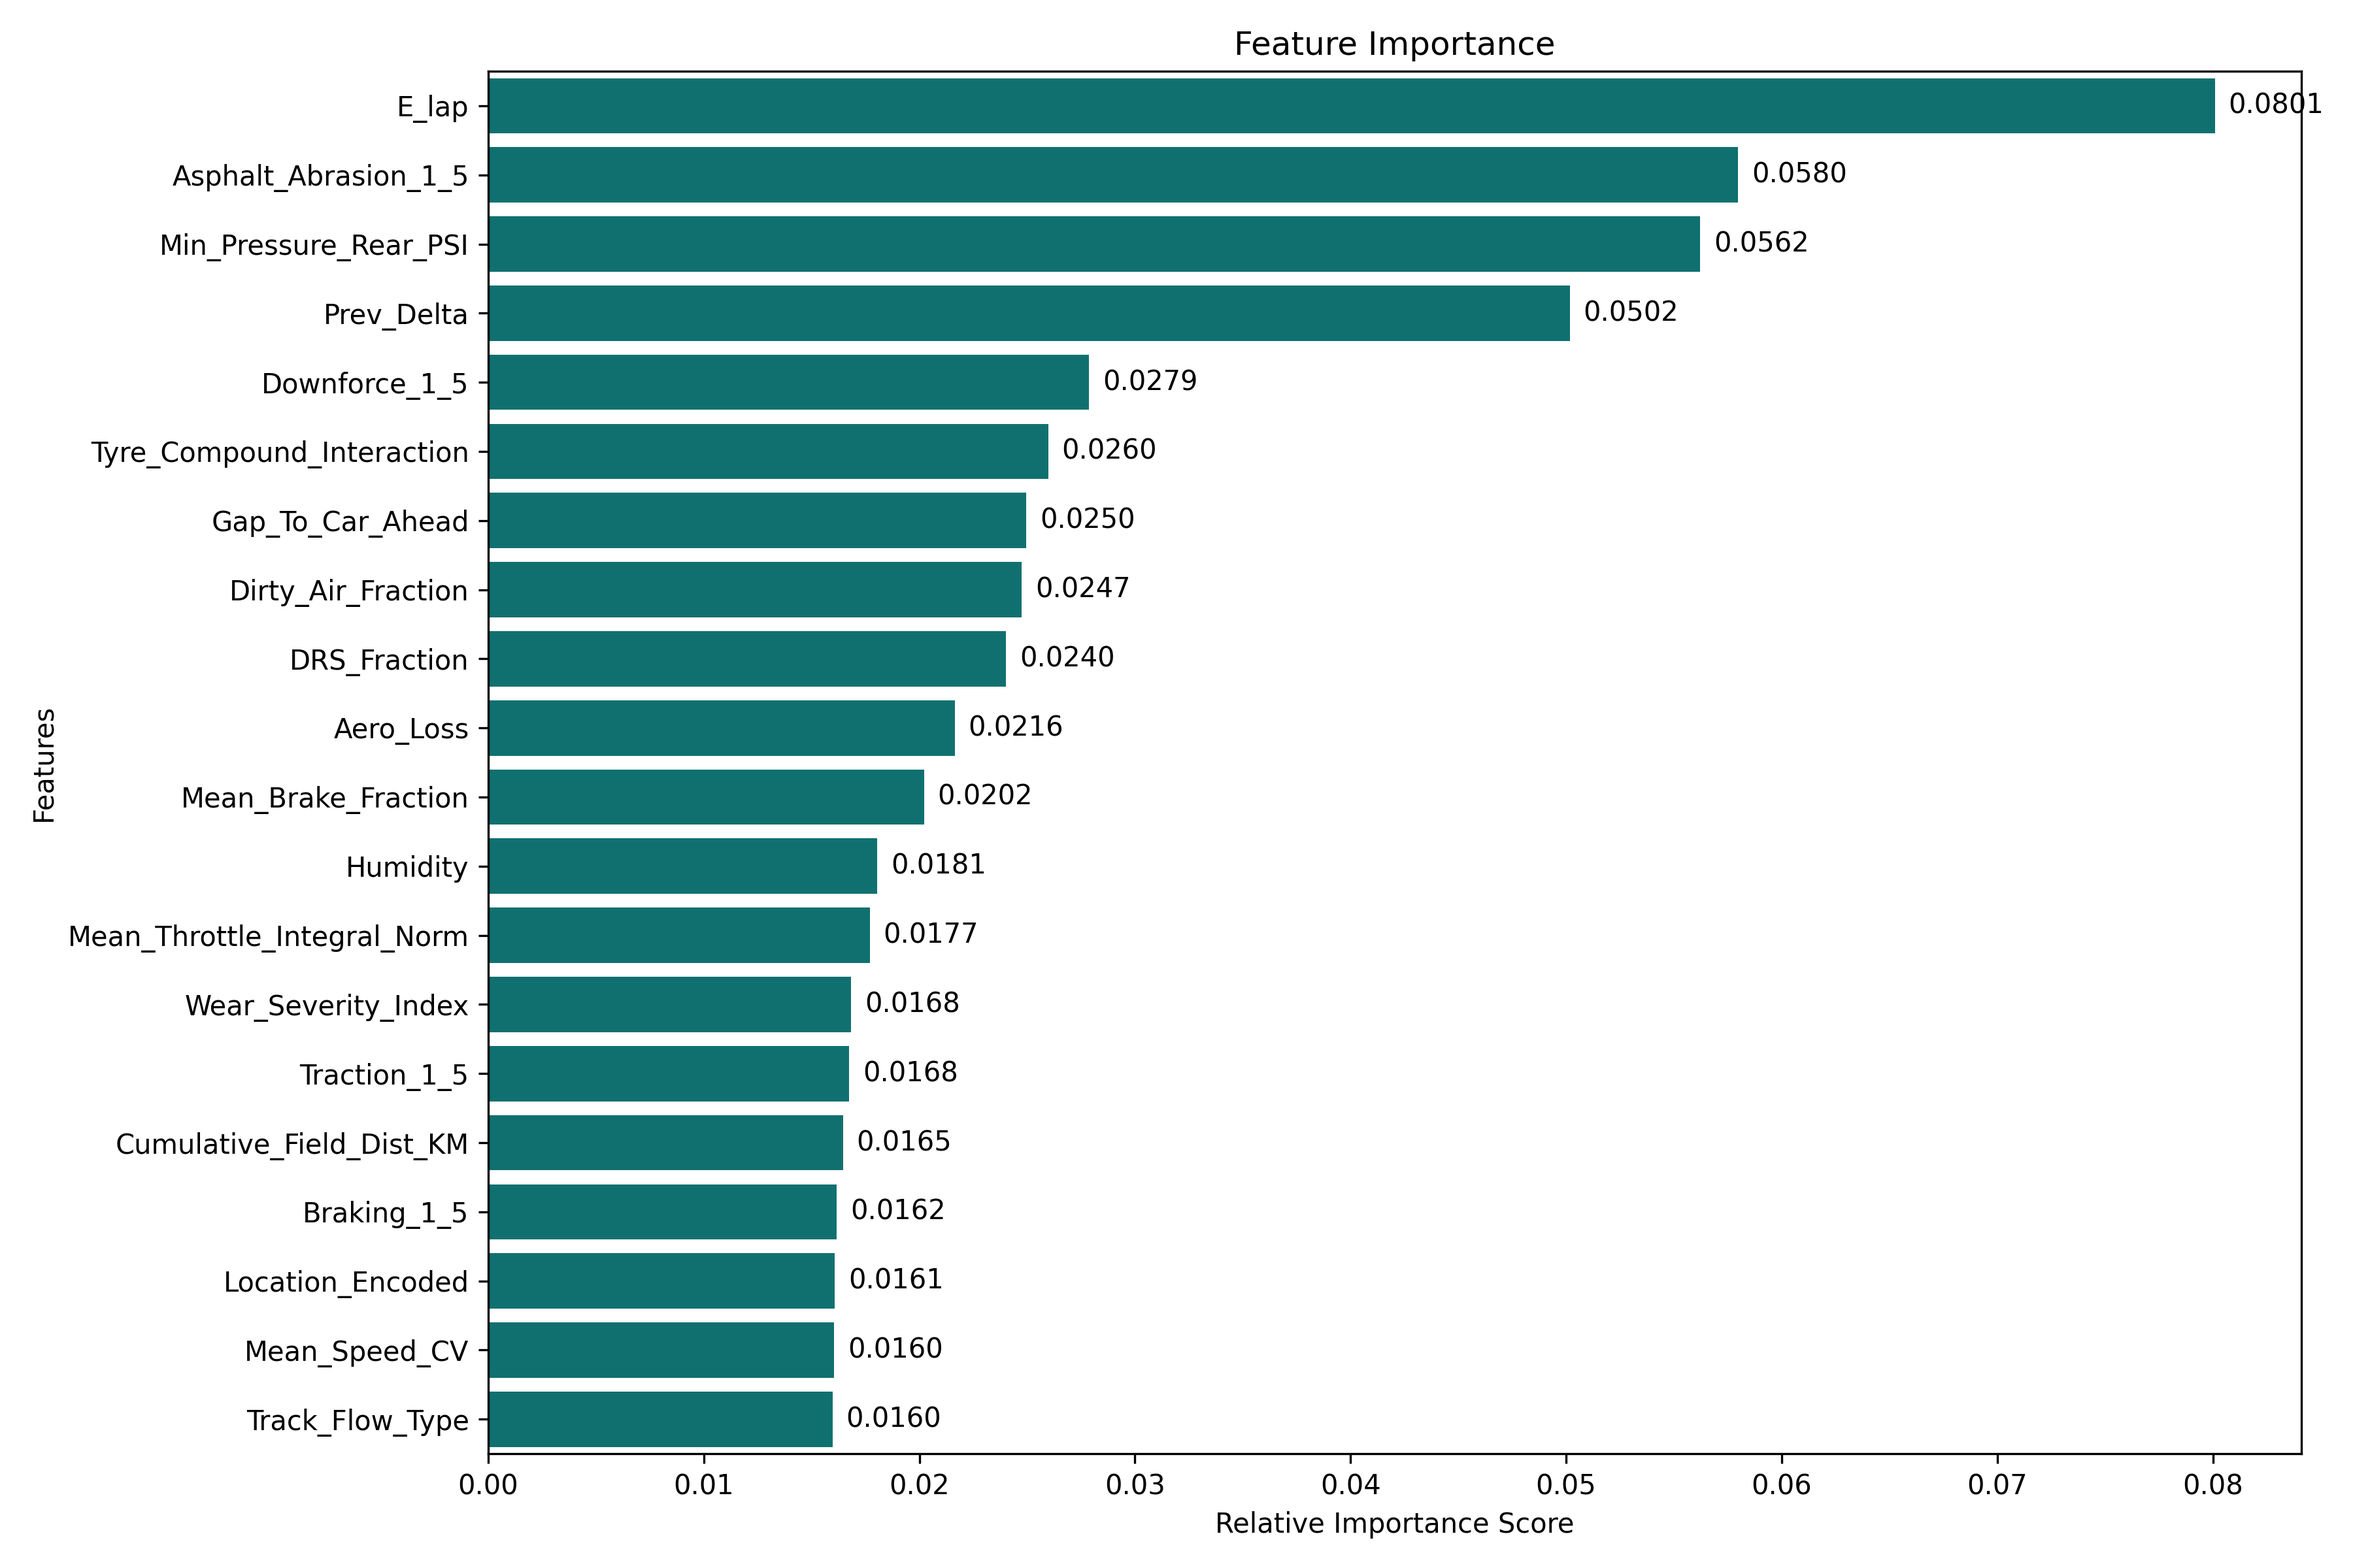
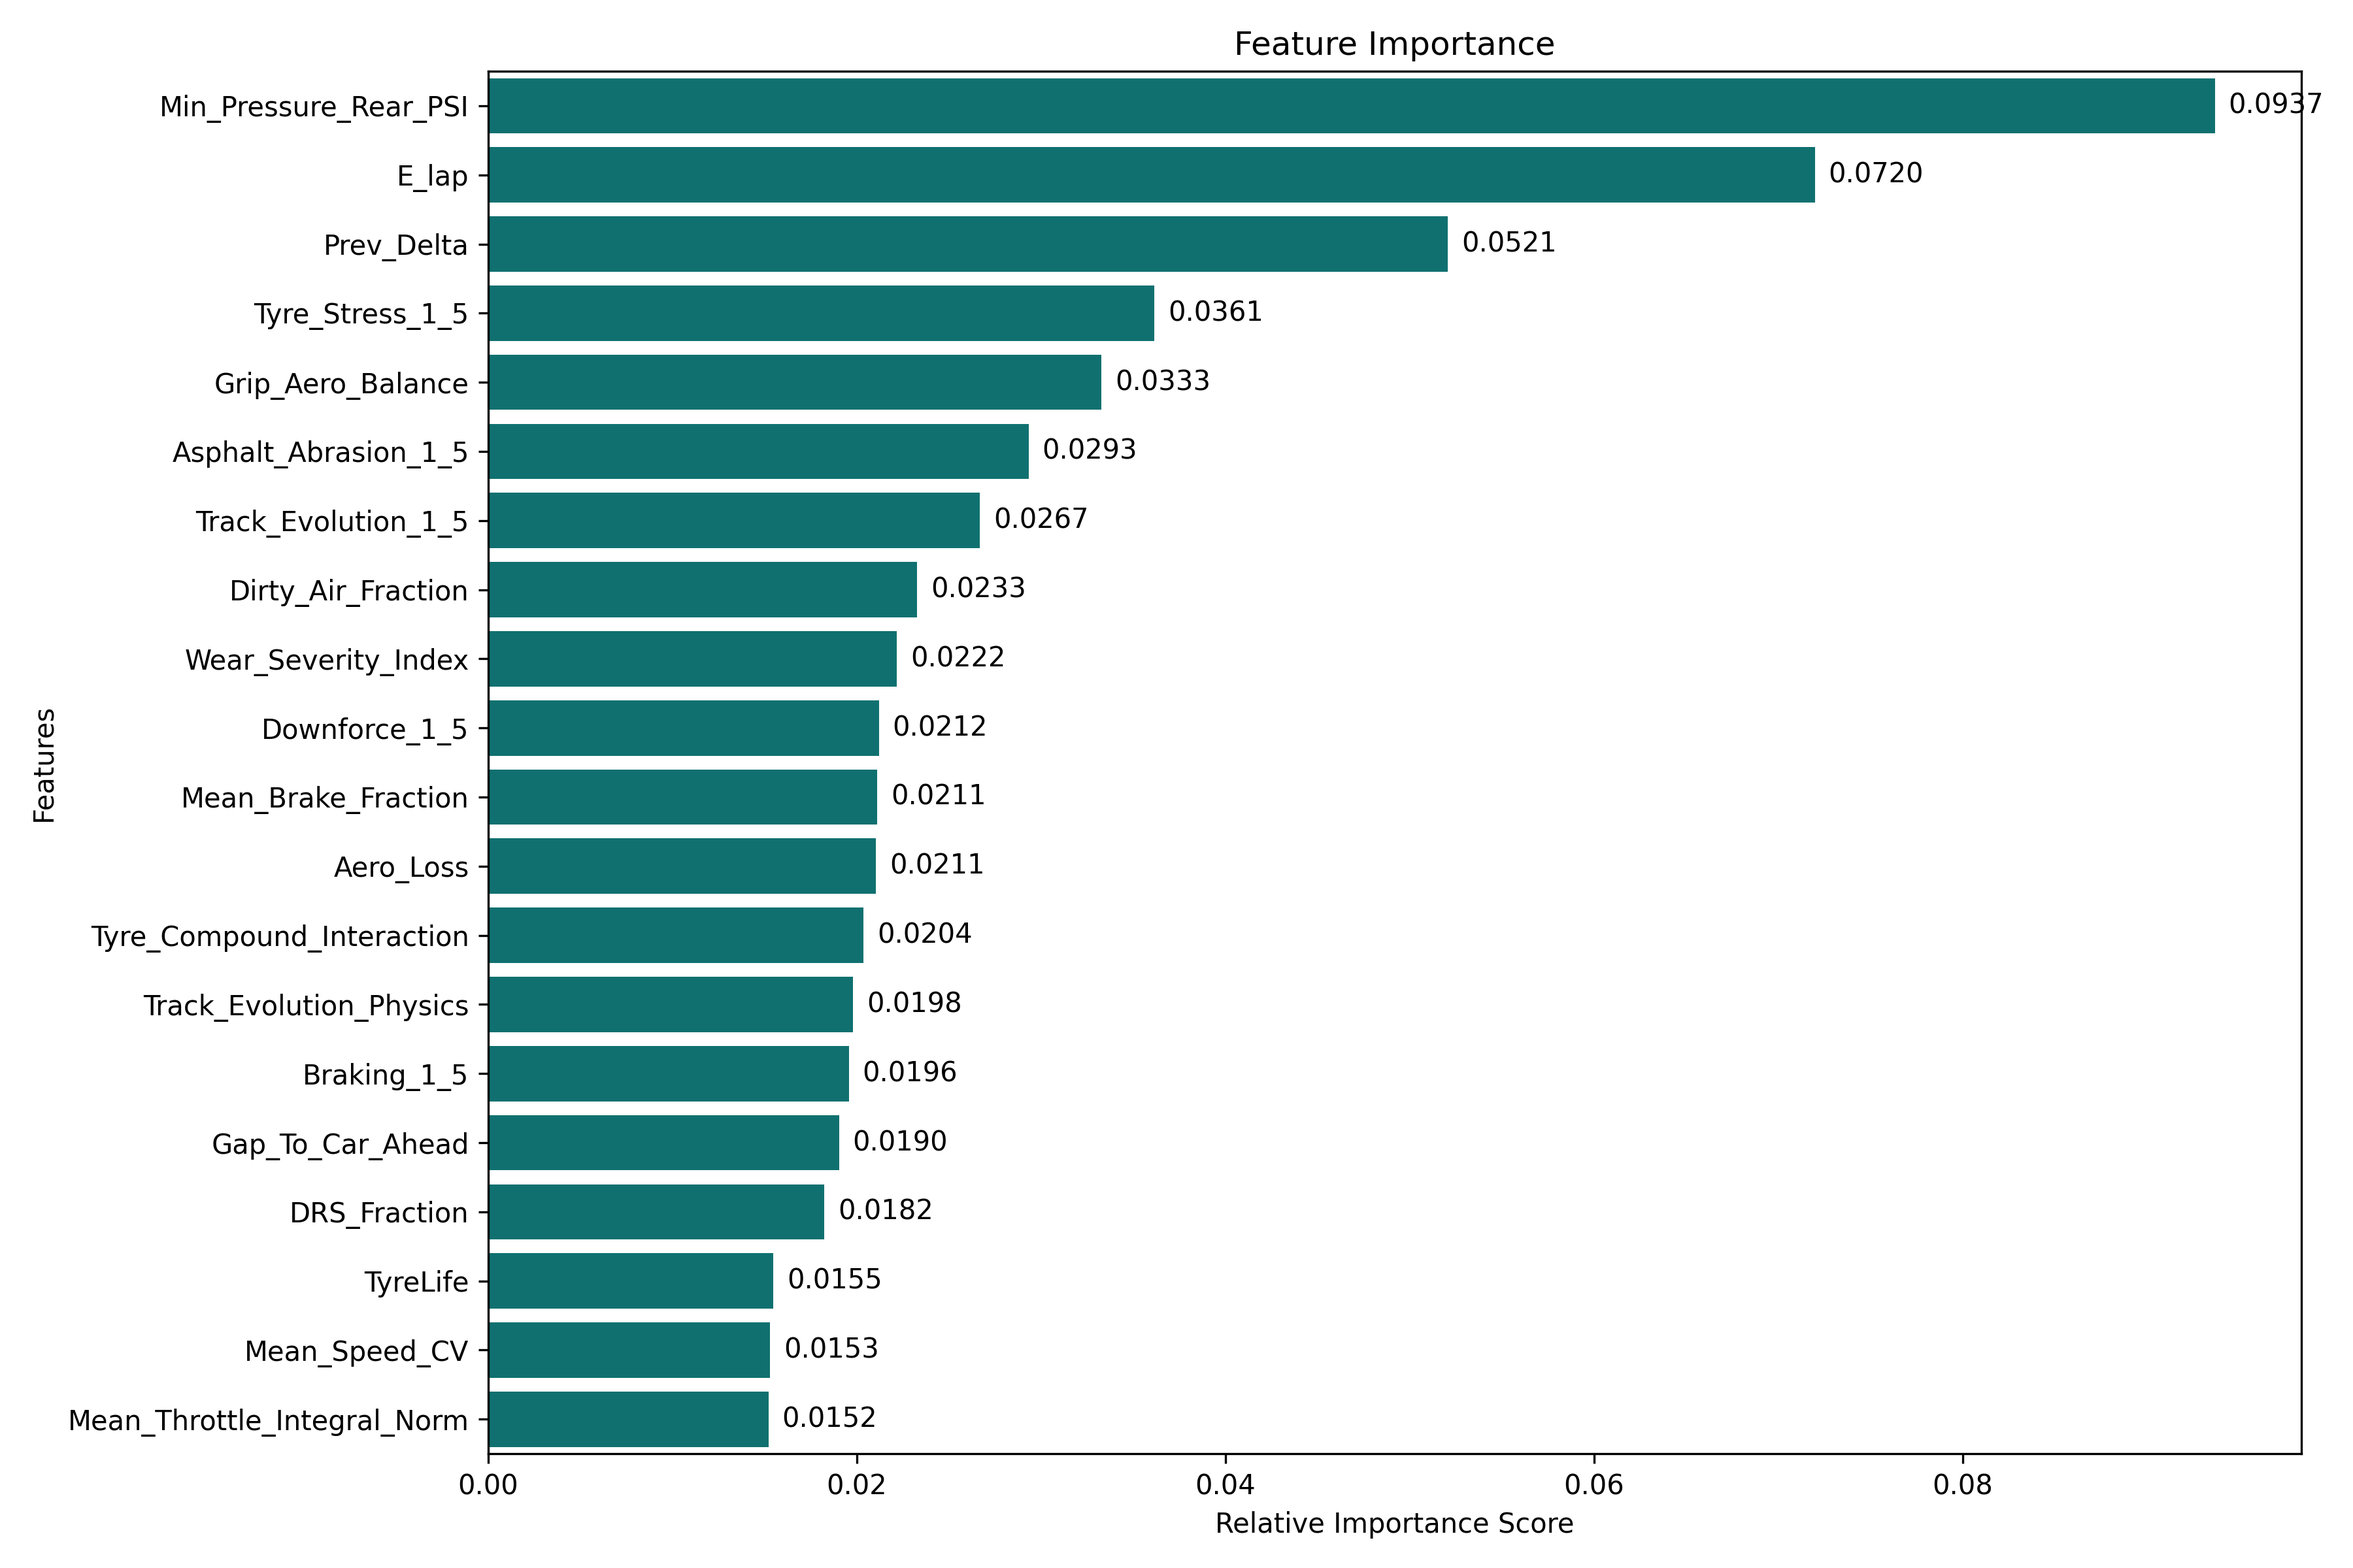
shifted features (test file) and removed data leakage feature

diff --git a/src/model_training_shifted.py b/src/model_training_shifted.py
@@ -250,6 +250,26 @@ if __name__ == "__main__":
 
     df_with_telemetry = pd.read_csv('data/dataset_2023.csv')
 
+    # shift telemetry features by 1 lap (to remove data leakage and make a forecasting model)
+    telemetry_features_to_shift = [
+        'E_lap', 'Gap_To_Car_Ahead', 'Dirty_Air_Fraction', 'DRS_Fraction',
+        'LatOffset_Mean', 'LatOffset_Std', 'Aero_Loss', 'Lap_Damage',
+        'Accumulated_Tyre_Wear', 'Tyre_Grip_Index',
+        'Mean_Apex_Speed_Ratio', 'Std_Apex_Speed_Ratio',
+        'Mean_Brake_Fraction', 'Std_Brake_Fraction',
+        'Mean_Brake_Point_Norm', 'Std_Brake_Point_Norm',
+        'Mean_Throttle_On_Dist_Norm', 'Std_Throttle_On_Dist_Norm',
+        'Mean_Throttle_Integral_Norm', 'Std_Throttle_Integral_Norm',
+        'Mean_Speed_CV', 'Std_Speed_CV',
+        'P_0', 'P_1', 'P_2', 'Style_Cluster_ID', 'Style_Entropy',
+    ]
+    df_with_telemetry = df_with_telemetry.sort_values(by=['Location', 'Driver', 'LapNumber'])
+    to_shift = [f for f in telemetry_features_to_shift if f in df_with_telemetry.columns]
+    for feat in to_shift:
+        df_with_telemetry[feat] = df_with_telemetry.groupby(['Location', 'Driver', 'Stint'])[feat].shift(1)
+    df_with_telemetry = df_with_telemetry.dropna(subset=to_shift).reset_index(drop=True)
+    print(f"Shifted {len(to_shift)} telemetry features by 1 lap. Rows remaining: {len(df_with_telemetry)}")
+
     features = [
         'LapNumber', 'Stint',
         'TyreLife', 'Tyre_Compound_Interaction',

diff --git a/src/data_preparation.py b/src/data_preparation.py
@@ -129,10 +129,6 @@ def add_lag_features(df_clean):
 
     df_ts = df_ts.dropna(subset=['Prev_LapTime', 'Rolling_Avg_3']).reset_index(drop=True)
     df_ts = df_ts.drop(columns=['Micro_Stint_ID'])
-
-    df_ts['Stint_Progress'] = df_ts.groupby(['Driver', 'Stint', 'Location'])['TyreLife'].transform(
-        lambda x: (x - x.min()) / (x.max() - x.min() + 1e-9)
-    )
     
     print(f"Final Laps with History: {len(df_ts)}")
     return df_ts
